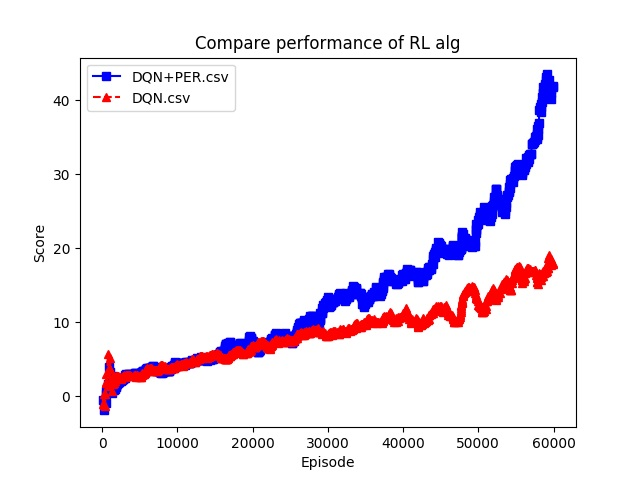
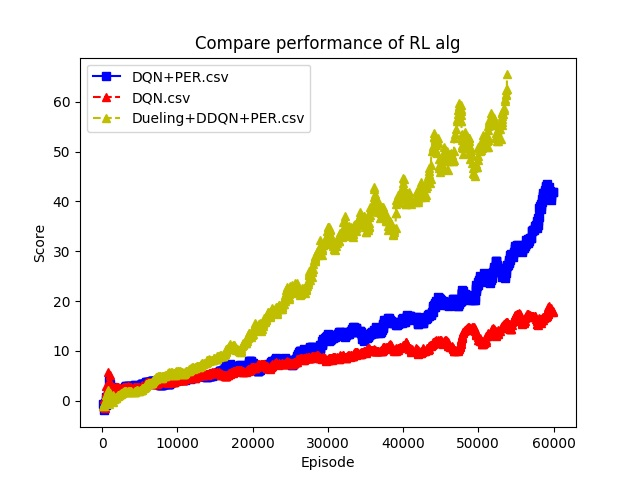
Dueling Network upate
Dueling + Double DQN + PER

diff --git a/CustomExample/DuelingNetModel.py b/CustomExample/DuelingNetModel.py
@@ -1,0 +1,139 @@
+#Deuling Network model
+
+#Component
+#Dueling Network Architectures for Deep Reinforcement Learning
+#Prioritized Experience Replay
+#Deep Reinforcement Learning with Double Q-learning
+#Playing Atari with Deep Reinforcement Learning
+
+import tensorflow as tf
+import numpy as np
+
+from SumTree import Memory      #Prioritized Experience Replay
+
+class DuelDQN:
+    REPLAY_MEMORY = 10000       #Replay buffer size
+    BATCH_SIZE = 32             #training mini batchsize
+    GAMMA = 0.99                #과거 상태 가감 계수
+    STATE_LEN = 4               #입력 샘플 하나당 볼 과거 프레임의 수
+
+    def __init__(self, session, width, height, n_action):
+        self.session = session
+        self.n_action = n_action
+        self.width = width
+        self.height = height
+
+        self.state = None
+
+        self.input_X = tf.placeholder(tf.float32, [None, width, height, self.STATE_LEN])    #네트워크 입력용
+        self.input_A = tf.placeholder(tf.int64, [None])
+        self.input_Y = tf.placeholder(tf.float32, [None])
+
+        self.memory = Memory(capacity=self.REPLAY_MEMORY)
+        self.ISWeights = tf.placeholder(tf.float32, [None], name='IS_weights')
+
+        self.Q = self._build_network('main')
+        self.target_Q = self._build_network('target')
+
+        self.cost, self.train_op, self.abs_error = self._build_op()
+
+    def _build_network(self, name):
+        with tf.variable_scope(name):
+            model = tf.layers.conv2d(self.input_X, 32, [4, 4], padding='same', activation=tf.nn.relu)
+            model = tf.layers.conv2d(model, 64, [4, 4], padding='same', activation=tf.nn.relu)
+            model = tf.layers.conv2d(model, 64, [2, 2], padding='same', activation=tf.nn.relu)
+            model = tf.contrib.layers.flatten(model)
+            model = tf.layers.dense(model, 512, activation=tf.nn.relu)
+            model_V = tf.layers.dense(model, 1)                     #value function
+            model_A = tf.layers.dense(model, self.n_action)         #action function
+            reduce_A = tf.reduce_mean(model_A, keep_dims=True, axis=1)
+            Q = model_V + (model_A - reduce_A)       #이부분 확인해봐야함
+
+        return Q
+
+    def _build_op(self):
+        one_hot = tf.one_hot(self.input_A, self.n_action, 1.0, 0.0)
+        Q_value = tf.reduce_sum(tf.multiply(self.Q, one_hot), axis=1)
+        TD_diff = self.input_Y - Q_value
+        abs_error = tf.abs(TD_diff)                                 #for updating Sumtree
+        mul = tf.multiply(self.ISWeights, tf.square(TD_diff))
+        cost = tf.reduce_sum(mul)
+
+        train_op = tf.train.AdamOptimizer(1e-6).minimize(cost)
+        return cost, train_op, abs_error
+
+    def update_target_network(self):
+        copy_op = []
+
+        main_vars = tf.get_collection(tf.GraphKeys.TRAINABLE_VARIABLES, scope='main')
+        target_vars = tf.get_collection(tf.GraphKeys.TRAINABLE_VARIABLES, scope='target')
+
+        for main_var, target_var in zip(main_vars, target_vars):
+            copy_op.append(target_var.assign(main_var.value()))
+
+        self.session.run(copy_op)
+
+    def get_action(self):
+        Q_value = self.session.run(self.Q, feed_dict={self.input_X: [self.state]})
+        action = np.argmax(Q_value[0])
+
+        return action
+
+    def init_state(self, state):
+        state = [state for _ in range(self.STATE_LEN)]
+        self.state = np.stack(state, axis=2)
+
+    def remember(self, state, action, reward, terminal):
+        next_state = np.reshape(state, (self.width, self.height, 1))
+        next_state = np.append(self.state[:, :, 1:], next_state, axis=2)    #가장 오래된 프레임을 제외한 나머지 프레임을 state 뒤에 붙임
+
+        transition = (self.state, next_state, action, reward, terminal)
+        self.memory.store(transition)
+
+        self.state = next_state
+
+    def _sample_memory(self):
+        tree_idx = np.empty((self.BATCH_SIZE,), dtype=np.int32)
+
+        tree_idx, batch_memory, ISWeights = self.memory.sample(self.BATCH_SIZE)
+
+        # 현재 Array에 Append 하는 형식으로 구현되어 있는데 추후 속도 향상을 위해 미리 메트릭스를 만드는 방식이 필요함
+        action = []
+        reward = []
+        terminal = []
+        state = []
+        next_state = []
+
+        for i in range(self.BATCH_SIZE):
+            state.append(batch_memory[i][0])
+            next_state.append(batch_memory[i][1])
+            action.append(batch_memory[i][2])
+            reward.append(batch_memory[i][3])
+            terminal.append(batch_memory[i][4])
+
+        return state, next_state, action, reward, terminal, tree_idx, ISWeights
+
+    def train(self):
+        state, next_state, action, reward, terminal, tree_idx, ISWeights = self._sample_memory()
+
+        target_Q_value = self.session.run(self.target_Q,
+                                          feed_dict={self.input_X: next_state})
+        Q_value = self.session.run(self.Q,
+                                   feed_dict={self.input_X: next_state})
+        main_action = np.argmax(Q_value, axis=1)
+
+        Y = []
+        for i in range(self.BATCH_SIZE):
+            if terminal[i]:
+                Y.append(reward[i])
+            else:
+                Q_prime = target_Q_value[i][main_action[i]]
+                Y.append(reward[i] + self.GAMMA * Q_prime)
+
+        _, _, abs_error = self.session.run([self.train_op, self.cost, self.abs_error],
+                                           feed_dict={self.input_X: state,
+                                                      self.input_A: action,
+                                                      self.input_Y: Y,
+                                                      self.ISWeights: ISWeights
+                                                      })
+        self.memory.batch_update(tree_idx, abs_error)  # update priority

diff --git a/CustomExample/Main.py b/CustomExample/Main.py
@@ -5,8 +5,8 @@ import random
 import time
 
 from game2 import Game
-from Model import DQN
-
+#from Model import DQN
+from DuelingNetModel import DuelDQN
 
 tf.app.flags.DEFINE_boolean("train", False, "학습모드. 게임을 화면에 보여주지 않습니다.")
 FLAGS = tf.app.flags.FLAGS
@@ -34,7 +34,8 @@ def train():
     sess = tf.Session()
 
     game = Game(SCREEN_WIDTH, SCREEN_HEIGHT, show_game=False)
-    brain = DQN(sess, SCREEN_WIDTH, SCREEN_HEIGHT, NUM_ACTION, prioritized=False)
+    #brain = DQN(sess, SCREEN_WIDTH, SCREEN_HEIGHT, NUM_ACTION, prioritized=False)
+    brain = DuelDQN(sess, SCREEN_WIDTH, SCREEN_HEIGHT, NUM_ACTION)
 
     rewards = tf.placeholder(tf.float32, [None])
     tf.summary.scalar('avg.reward/ep.', tf.reduce_mean(rewards))
@@ -96,7 +97,8 @@ def train():
 
             if time_step > OBSERVE and time_step % TRAIN_INTERVAL == 0:
                 # DQN 으로 학습을 진행합니다.
-                brain.train_DDQN()
+                #brain.train_DDQN()
+                brain.train()
 
             if time_step % TARGET_UPDATE_INTERVAL == 0:
                 # 타겟 네트웍을 업데이트 해 줍니다.
